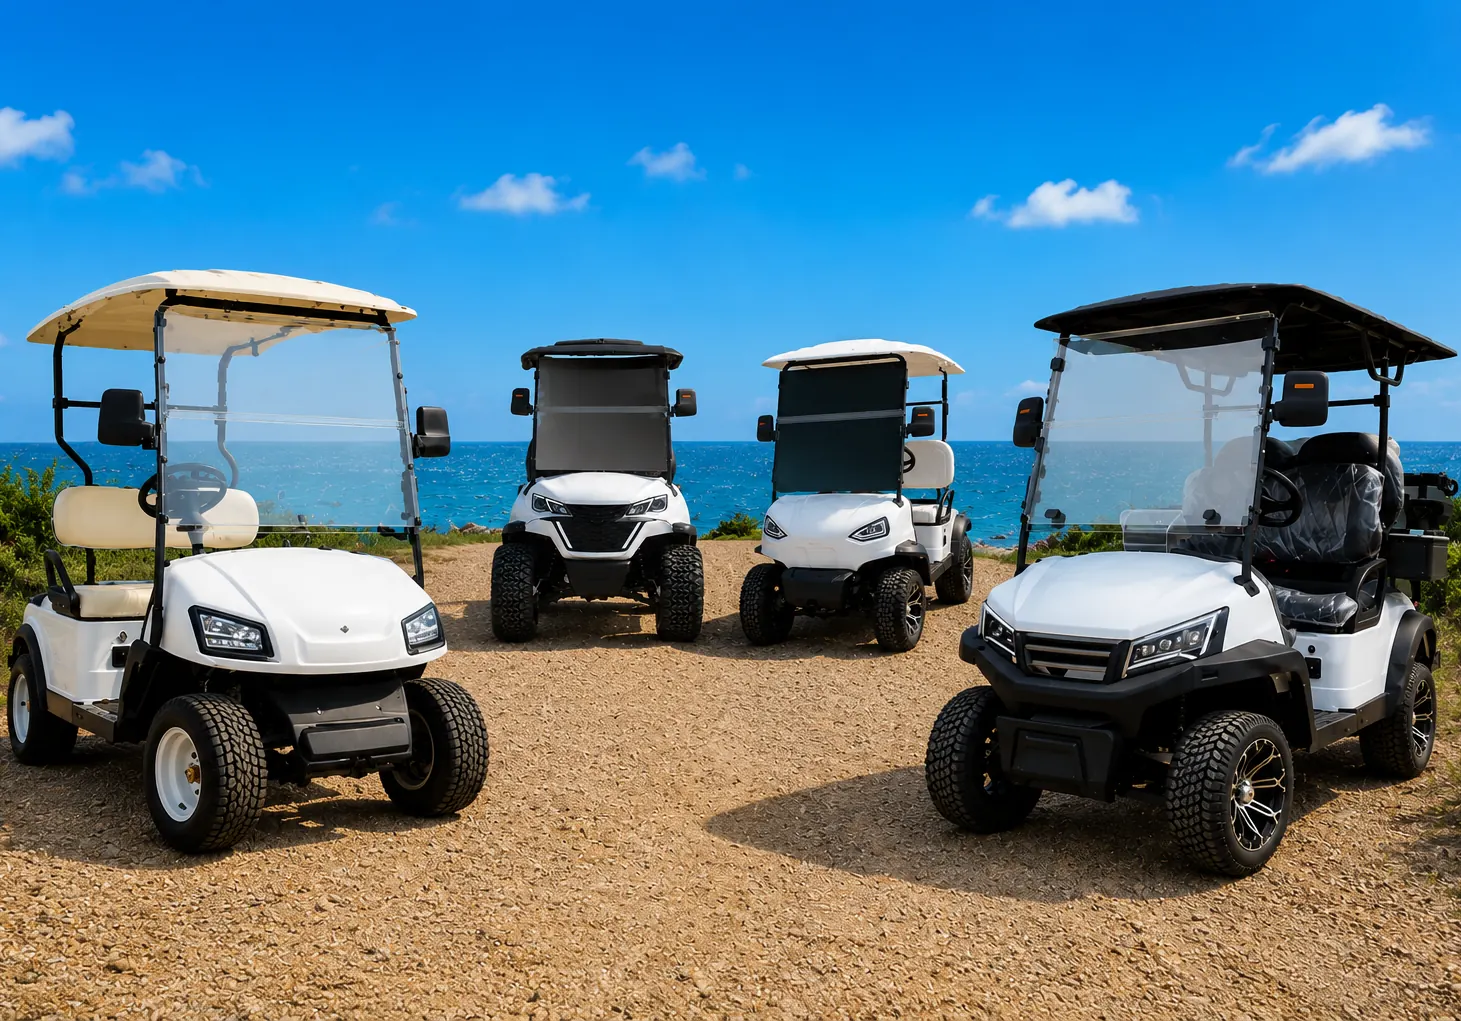
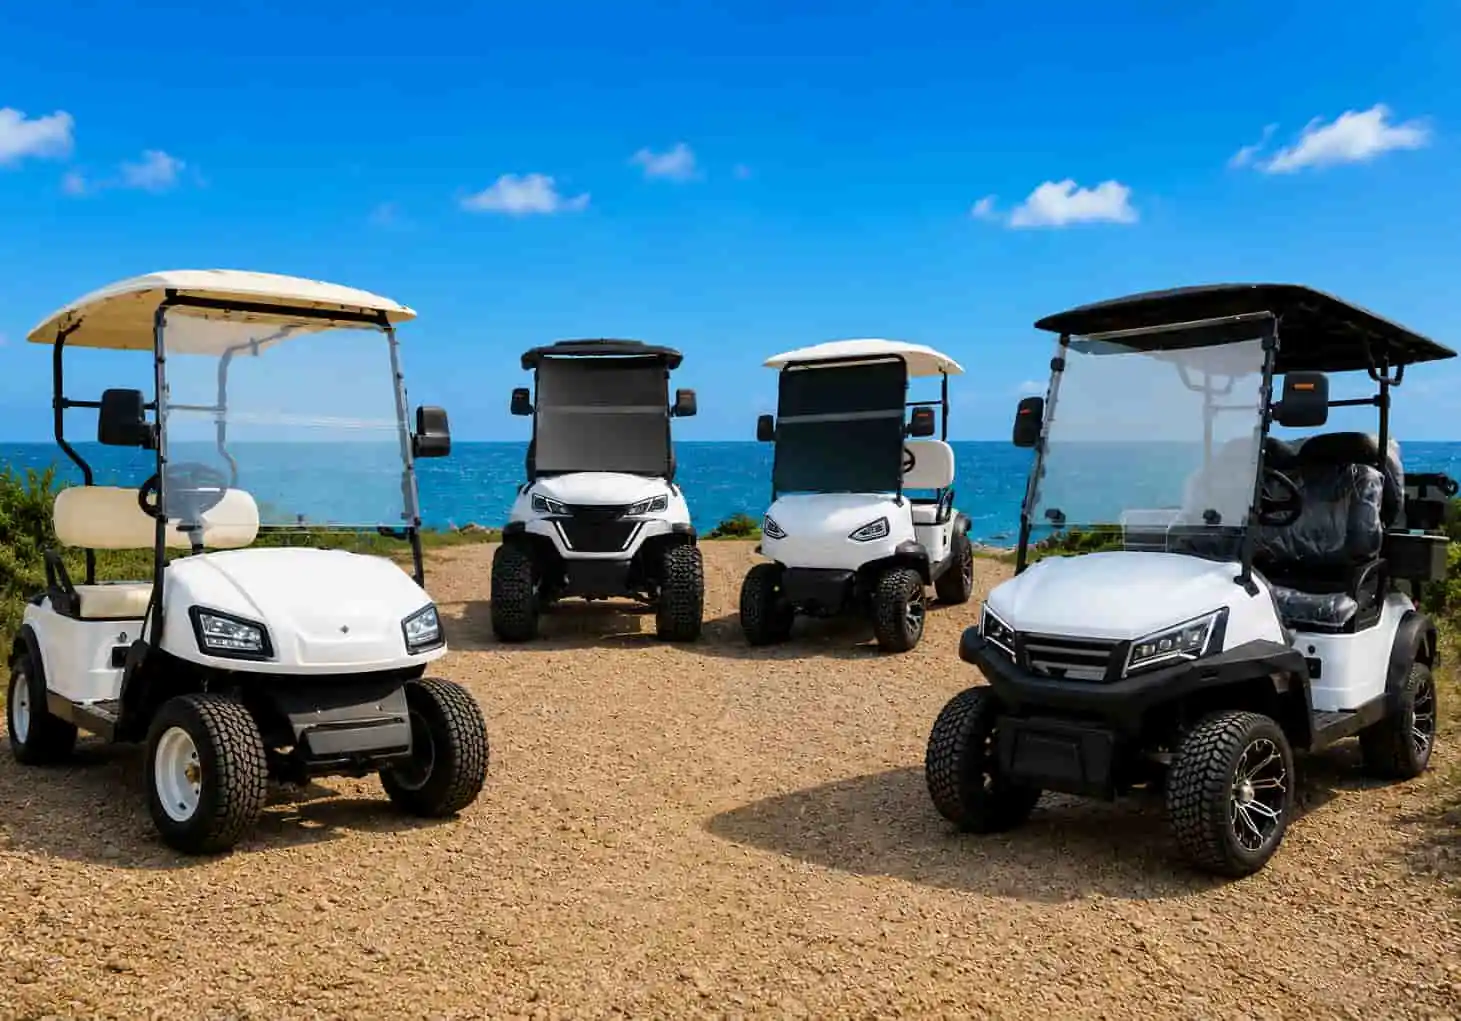
Aggiorna foto Home (JPEG corretto), rimuove PNG obsoleto, rigenera WebP

diff --git a/src/App.js b/src/App.js
@@ -16,7 +16,7 @@ const GuidedAssistantPage = lazy(() => import("./GuidedAssistantPage"));
 const ConfiguratorPage = lazy(() => import("./ConfiguratorPage"));
 
 
-const IMGS = {"modA": "/images/foto-modello-a1.jpg", "modB": "/images/foto-modello-b1.jpg", "homeImg": "/images/foto-home-page.png", "modC": "/images/foto-modello-c1.jpg", "modD": "/images/foto-modello-d1.jpg", "mod2p": "/images/foto-2-posti.jpg", "mod2p2": "/images/foto-2-2-posti.jpg", "mod4p2": "/images/foto-4-2-posti.jpg", "solar": "/images/Pannello%20Fotovoltaico.jpg", "opt_rain": "/images/Copertura%20Anti-Pioggia.jpg", "opt_cover": "/images/Cover%20di%20Protezione.jpg", "opt_sun": "/images/Tende%20Parasole.jpg", "opt_mirror": "/images/Specchietti%20con%20LED.jpg", "opt_spots": "/images/Faretti%20LED%20sul%20Tetto.jpg", "opt_led": "/images/Strisicia%20LED%20Sottotetto.jpg", "opt_emerg": "/images/Kit%20Luci%20Emergenza.jpg", "opt_disp": "/images/Display%20Touch%20Screen.jpg", "opt_stereo": "/images/Stereo%20Bluetooth.jpg", "opt_table": "/images/Tavolino%20Posteriore.jpg", "opt_frtlt": "/images/Faro%20LED%20Frontale.jpg", "opt_rearlt": "/images/Luci%20Targa%20%2B%20Stop%20LED.jpg", "opt_rseat": "/images/Sedile%20con%20Cintura.jpg", "opt_rplat": "/images/Pianale%20Ribaltabile.jpg", "opt_storecov": "/images/Vano%20Bagagli.jpg", "opt_ball": "/images/Porta%20Palline%20Golf.jpg", "opt_fbask": "/images/Cestello%20Frontale.jpg", "opt_trunk": "/images/Baule%20Posteriore.jpg", "opt_wiper": "/images/Tergicristallo.jpg", "opt_steps": "/images/Pedana%20in%20Alluminio.jpg", "opt_tow": "/images/Gancio%20Traino.jpg", "opt_water": "/images/Porta%20Bottiglie.jpg", "opt_pedals": "/images/Pedane%20Posteriori.jpg", "opt_cargo": "/images/Cassone%20da%20lavoro.jpg", "opt_ropen": "/images/Pianale%20con%20Corrimano.jpg", "opt_bull": "/images/Bull%20Bar%20Frontale.jpg", "opt_speak": "/images/Speaker%20Marino%20LED.jpg", "opt_cdash": "/images/Pannello%20Carbon%20Fiber.jpg", "opt_vdisp": "/images/Display%20Touch%20Verticale.jpg", "seat_std": "/images/Sedile%20Standard.jpg", "seat_sport": "/images/Sedile%20Sport.jpg", "seat_prem": "/images/Sedile%20Premium%20Imbottito.jpg", "seat_head": "/images/Premium%20con%20Poggiatesta.jpg", "tire_g10": "/images/PneumaticiDaErba10pollici.jpeg", "tire_g12": "/images/Da%20Erba%2012%27%27.jpg", "tire_g14": "/images/Da%20Erba%2014%27%27.jpg", "tire_or12": "/images/Off-Road%2012%27%27.jpg", "tire_or14": "/images/Off-Road%2014%27%27.jpg", "steer_std": "/images/Volante%20Standard.jpg", "steer_sp": "/images/Volante%20Sportivo.jpg", "steer_cf": "/images/Volante%20Carbon%20Fiber.jpg", "wind_std": "/images/Parabrezza%20Standard.jpg", "wind_ft": "/images/Pieghevole%20Trasparente.jpg", "wind_fb": "/images/Pieghevole%20Marrone.jpg", "wind_tmp": "/images/Parabrezza%20Temprato.jpg", "seat4p": "/images/foto-4-posti.jpg", };
+const IMGS = {"modA": "/images/foto-modello-a1.jpg", "modB": "/images/foto-modello-b1.jpg", "homeImg": "/images/foto-home-page.jpg", "modC": "/images/foto-modello-c1.jpg", "modD": "/images/foto-modello-d1.jpg", "mod2p": "/images/foto-2-posti.jpg", "mod2p2": "/images/foto-2-2-posti.jpg", "mod4p2": "/images/foto-4-2-posti.jpg", "solar": "/images/Pannello%20Fotovoltaico.jpg", "opt_rain": "/images/Copertura%20Anti-Pioggia.jpg", "opt_cover": "/images/Cover%20di%20Protezione.jpg", "opt_sun": "/images/Tende%20Parasole.jpg", "opt_mirror": "/images/Specchietti%20con%20LED.jpg", "opt_spots": "/images/Faretti%20LED%20sul%20Tetto.jpg", "opt_led": "/images/Strisicia%20LED%20Sottotetto.jpg", "opt_emerg": "/images/Kit%20Luci%20Emergenza.jpg", "opt_disp": "/images/Display%20Touch%20Screen.jpg", "opt_stereo": "/images/Stereo%20Bluetooth.jpg", "opt_table": "/images/Tavolino%20Posteriore.jpg", "opt_frtlt": "/images/Faro%20LED%20Frontale.jpg", "opt_rearlt": "/images/Luci%20Targa%20%2B%20Stop%20LED.jpg", "opt_rseat": "/images/Sedile%20con%20Cintura.jpg", "opt_rplat": "/images/Pianale%20Ribaltabile.jpg", "opt_storecov": "/images/Vano%20Bagagli.jpg", "opt_ball": "/images/Porta%20Palline%20Golf.jpg", "opt_fbask": "/images/Cestello%20Frontale.jpg", "opt_trunk": "/images/Baule%20Posteriore.jpg", "opt_wiper": "/images/Tergicristallo.jpg", "opt_steps": "/images/Pedana%20in%20Alluminio.jpg", "opt_tow": "/images/Gancio%20Traino.jpg", "opt_water": "/images/Porta%20Bottiglie.jpg", "opt_pedals": "/images/Pedane%20Posteriori.jpg", "opt_cargo": "/images/Cassone%20da%20lavoro.jpg", "opt_ropen": "/images/Pianale%20con%20Corrimano.jpg", "opt_bull": "/images/Bull%20Bar%20Frontale.jpg", "opt_speak": "/images/Speaker%20Marino%20LED.jpg", "opt_cdash": "/images/Pannello%20Carbon%20Fiber.jpg", "opt_vdisp": "/images/Display%20Touch%20Verticale.jpg", "seat_std": "/images/Sedile%20Standard.jpg", "seat_sport": "/images/Sedile%20Sport.jpg", "seat_prem": "/images/Sedile%20Premium%20Imbottito.jpg", "seat_head": "/images/Premium%20con%20Poggiatesta.jpg", "tire_g10": "/images/PneumaticiDaErba10pollici.jpeg", "tire_g12": "/images/Da%20Erba%2012%27%27.jpg", "tire_g14": "/images/Da%20Erba%2014%27%27.jpg", "tire_or12": "/images/Off-Road%2012%27%27.jpg", "tire_or14": "/images/Off-Road%2014%27%27.jpg", "steer_std": "/images/Volante%20Standard.jpg", "steer_sp": "/images/Volante%20Sportivo.jpg", "steer_cf": "/images/Volante%20Carbon%20Fiber.jpg", "wind_std": "/images/Parabrezza%20Standard.jpg", "wind_ft": "/images/Pieghevole%20Trasparente.jpg", "wind_fb": "/images/Pieghevole%20Marrone.jpg", "wind_tmp": "/images/Parabrezza%20Temprato.jpg", "seat4p": "/images/foto-4-posti.jpg", };
 
 const C = {
   bg:"#0a0a0a",surface:"#111111",card:"#161616",border:"#222222",
